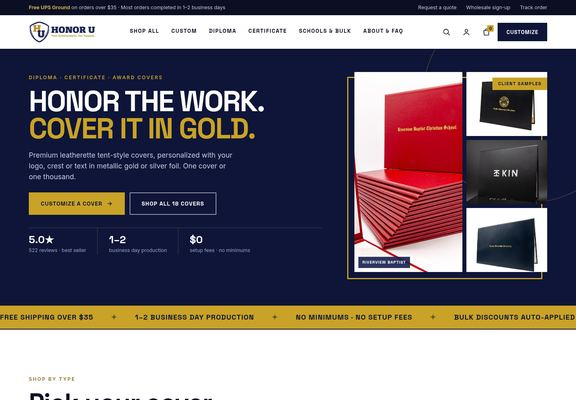
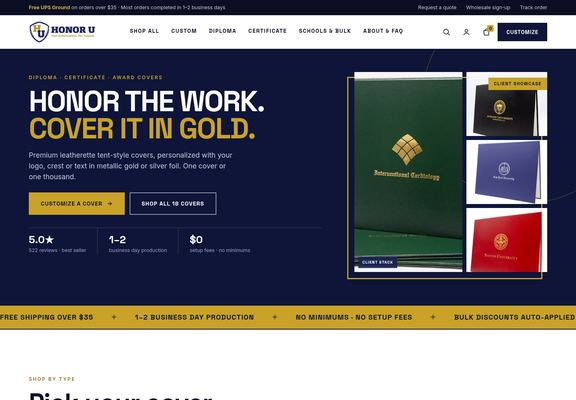
Design B: client-showcase hero photos; denser Pick your cover + Order now

Changed region(s): [[0.5938, 0.18, 0.9688, 0.69]]

diff --git a/design-b/index.html b/design-b/index.html
@@ -90,7 +90,7 @@ html.shot .hdr{position:relative}
 .hero-art::before{content:"";position:absolute;left:0;bottom:0;width:calc(100% - 18px);height:calc(100% - 18px);border:3px solid var(--gold);pointer-events:none;z-index:0}
 .collage{position:relative;z-index:1;display:grid;grid-template-columns:1.2fr .9fr;grid-template-rows:minmax(0,1fr) minmax(0,1fr) minmax(0,1fr);gap:10px;height:500px}
 .collage .tile{background:#fff;overflow:hidden;position:relative;display:grid;place-items:center}
-.collage .tile img{width:100%;height:100%;object-fit:cover}
+.collage .tile img{width:100%;height:100%;object-fit:cover;object-position:center}
 .collage .tile.cut img{width:88%;height:auto;max-height:92%;object-fit:contain;mix-blend-mode:multiply}
 .collage .a{grid-row:1/-1}
 .collage .cap{position:absolute;left:10px;bottom:10px;background:rgba(25,36,81,.92);color:#fff;font:700 10px/1.2 var(--disp);letter-spacing:.1em;text-transform:uppercase;padding:8px 10px}
@@ -99,18 +99,20 @@ html.shot .hdr{position:relative}
 .marq div{display:flex;gap:44px;white-space:nowrap;padding:20px 0;font:700 18px/1 var(--disp);letter-spacing:.06em;text-transform:uppercase;width:max-content}
 .marq i{font-style:normal;opacity:.55}
 .idx{border-top:2px solid var(--ink)}
-.idx a{display:grid;grid-template-columns:minmax(0,1fr) 280px;gap:48px;align-items:center;padding:40px 0;border-bottom:1px solid var(--line)}
-.idx a .body{order:1;display:grid;grid-template-columns:72px minmax(0,1fr);column-gap:22px;row-gap:10px;align-items:start}
-.idx a .th{order:2;height:260px;background:var(--paper);display:grid;place-items:center;overflow:hidden}
-.idx a .th img{height:90%;width:auto;max-width:92%;object-fit:contain;mix-blend-mode:multiply}
-.idx a:nth-child(even){grid-template-columns:280px minmax(0,1fr)}
-.idx a:nth-child(even) .th{order:1}
-.idx a:nth-child(even) .body{order:2}
-.idx .no{font:700 18px/1 var(--disp);color:#8E7024;grid-row:1/span 3;padding-top:8px}
-.idx h3{font-size:44px;text-transform:uppercase;letter-spacing:-.03em;grid-column:2}
-.idx p{margin:0;color:var(--mut);font-size:15.5px;grid-column:2;max-width:520px}
-.idx .pr{font:700 20px/1 var(--disp);grid-column:2;margin-top:6px}.idx .pr small{display:inline;font:500 13px/1.4 Inter,sans-serif;color:var(--mut);margin-left:10px}
-.idx a.feat{background:var(--navy);color:#fff;padding-left:28px;padding-right:28px;margin:0 -28px;border-bottom:0}.idx a.feat p{color:#C6CAE0}.idx a.feat .no{color:var(--gold)}.idx a.feat .th{background:#fff}
+.idx .row{display:grid;grid-template-columns:minmax(0,1fr) 200px;gap:28px;align-items:center;padding:18px 0;border-bottom:1px solid var(--line)}
+.idx .row .body{order:1;display:grid;grid-template-columns:56px minmax(0,1fr);column-gap:16px;row-gap:4px;align-items:start}
+.idx .row .th{order:2;height:168px;background:var(--paper);display:grid;place-items:center;overflow:hidden}
+.idx .row .th img{height:88%;width:auto;max-width:92%;object-fit:contain;mix-blend-mode:multiply}
+.idx .row:nth-child(even){grid-template-columns:200px minmax(0,1fr)}
+.idx .row:nth-child(even) .th{order:1}
+.idx .row:nth-child(even) .body{order:2}
+.idx .no{font:700 15px/1 var(--disp);color:#8E7024;grid-row:1/span 4;padding-top:6px}
+.idx h3{font-size:32px;text-transform:uppercase;letter-spacing:-.03em;grid-column:2}
+.idx p{margin:0;color:var(--mut);font-size:14.5px;grid-column:2;max-width:480px}
+.idx .meta{grid-column:2;display:flex;align-items:center;gap:16px;flex-wrap:wrap;margin-top:8px}
+.idx .pr{font:700 17px/1 var(--disp)}.idx .pr small{display:inline;font:500 12.5px/1.4 Inter,sans-serif;color:var(--mut);margin-left:8px}
+.idx .btn{height:42px;padding:0 18px;font-size:12.5px}
+.idx .row.feat{background:var(--navy);color:#fff;padding-left:22px;padding-right:22px;margin:0 -22px;border-bottom:0}.idx .row.feat p{color:#C6CAE0}.idx .row.feat .no{color:var(--gold)}.idx .row.feat .th{background:#fff}.idx .row.feat .pr small{color:#9EA3C4}.idx .row.feat .btn-navy{background:var(--gold);border-color:var(--gold);color:var(--navy)}
 .how{display:grid;grid-template-columns:repeat(3,1fr);border-top:1px solid rgba(255,255,255,.2)}
 .how div{padding:44px 40px 10px 0;border-right:1px solid rgba(255,255,255,.2);margin-right:40px}.how div:last-child{border:0;margin:0}
 .how .big{font:700 120px/.8 var(--disp);color:transparent;-webkit-text-stroke:2px var(--gold);display:block;margin-bottom:28px}
@@ -143,14 +145,15 @@ html.shot .hdr{position:relative}
  .collage{height:340px;gap:8px}.collage .cap{font-size:9px;padding:6px 8px;left:6px;bottom:6px}
  .hero-art .lab{top:10px;padding:8px 12px;font-size:10px}
  .marq div{font-size:14px;padding:15px 0;gap:26px}
- .idx a{grid-template-columns:minmax(0,1fr) 132px;gap:16px;padding:26px 0;align-items:center}
- .idx a .body{grid-template-columns:40px minmax(0,1fr);column-gap:12px;row-gap:6px}
- .idx a .th{height:132px}.idx a .th img{height:88%}
- .idx a:nth-child(even){grid-template-columns:132px minmax(0,1fr)}
- .idx .no{font-size:14px;padding-top:4px;grid-row:1/span 3}
- .idx h3{font-size:22px;grid-column:2}.idx p{grid-column:2;font-size:13.5px;max-width:none}
- .idx .pr{grid-column:2;font-size:16px;margin-top:2px}.idx .pr small{margin-left:6px;font-size:12px}
- .idx a.feat{margin:0 -20px;padding-left:16px;padding-right:16px}
+ .idx .row{grid-template-columns:minmax(0,1fr) 112px;gap:12px;padding:14px 0}
+ .idx .row .body{grid-template-columns:34px minmax(0,1fr);column-gap:10px;row-gap:3px}
+ .idx .row .th{height:112px}.idx .row .th img{height:88%}
+ .idx .row:nth-child(even){grid-template-columns:112px minmax(0,1fr)}
+ .idx .no{font-size:13px;padding-top:3px;grid-row:1/span 4}
+ .idx h3{font-size:18px;grid-column:2}.idx p{grid-column:2;font-size:13px;max-width:none}
+ .idx .meta{grid-column:2;gap:10px;margin-top:6px}.idx .pr{font-size:15px}.idx .pr small{margin-left:6px;font-size:11.5px}
+ .idx .btn{height:38px;padding:0 14px;font-size:11.5px;width:100%;max-width:160px}
+ .idx .row.feat{margin:0 -16px;padding-left:14px;padding-right:14px}
  .how{grid-template-columns:1fr}.how div{border-right:0;border-bottom:1px solid rgba(255,255,255,.2);margin:0;padding:30px 0}.how .big{font-size:80px;margin-bottom:18px}.how h3{font-size:24px}
  .bulk{grid-template-columns:1fr;min-height:0}.bulk .im{height:300px}.bulk .tx{padding:44px var(--g)}.bulk h2{font-size:36px}
  .quote{grid-template-columns:1fr;gap:30px}.quote blockquote{font-size:31px}.quote blockquote::before{font-size:100px}
@@ -169,18 +172,18 @@ html.shot .hdr{position:relative}
 <p>Premium leatherette tent-style covers, personalized with your logo, crest or text in metallic gold or silver foil. One cover or one thousand.</p>
 <div class="ctas"><a class="btn btn-gold" href="product.html">Customize a cover <svg width="14" height="14" viewBox="0 0 24 24" fill="none" stroke="currentColor" stroke-width="2" stroke-linecap="round"><path d="M5 12h14M13 6l6 6-6 6"/></svg></a><a class="btn btn-line" href="collection.html">Shop all 18 covers</a></div>
 <div class="stats"><div><b>5.0★</b><span>522 reviews · best seller</span></div><div><b>1–2</b><span>business day production</span></div><div><b>$0</b><span>setup fees · no minimums</span></div></div></div>
-<div class="hero-art" data-block="hero collage (client samples)"><span class="lab">Client samples</span>
+<div class="hero-art" data-block="hero collage (client showcase)"><span class="lab">Client showcase</span>
 <div class="collage">
-<div class="tile a"><img src="../shared-assets/site/RiverviewBaptistGroupStack.jpg" alt="Riverview Baptist Christian School custom covers"><span class="cap">Riverview Baptist</span></div>
-<div class="tile cut"><img src="../shared-assets/products/custom-tent-style-document-cover-with-metallic-foil-printed-logo-or-text/11.jpg" alt="Walther Theological Seminary cover"></div>
-<div class="tile"><img src="../shared-assets/site/KIN_final_stack_62835ca3-bf75-468c-9a63-2eefc4b54c76.jpg" alt="KIN custom logo cover stack"></div>
-<div class="tile cut"><img src="../shared-assets/products/made-to-fit-custom-size-tent-style-document-cover-for-unique-dimensions/02.jpg" alt="Toronto Metropolitan University Made-to-Fit cover"></div>
+<div class="tile a"><img src="../shared-assets/site/client-showcase/Interventional_Cardiology_2026_stack_group.jpg" alt="Interventional Cardiology fellowship covers"><span class="cap">Client stack</span></div>
+<div class="tile"><img src="../shared-assets/site/client-showcase/howard_university.jpg" alt="Howard University diploma cover"></div>
+<div class="tile"><img src="../shared-assets/site/client-showcase/New_York_University_seal_and_OE_text_silver.jpg" alt="New York University cover with silver foil"></div>
+<div class="tile"><img src="../shared-assets/site/client-showcase/Boston_University.jpg" alt="Boston University diploma cover"></div>
 </div></div>
 </div></section>
 <div class="marq" aria-label="Store benefits"><div>Free shipping over $35 <i>✦</i> 1–2 business day production <i>✦</i> No minimums · no setup fees <i>✦</i> Bulk discounts auto-applied <i>✦</i> Gold or silver foil <i>✦</i> 6 leatherette colors <i>✦</i> Free shipping over $35 <i>✦</i> 1–2 business day production <i>✦</i> No minimums · no setup fees <i>✦</i> Bulk discounts auto-applied <i>✦</i> Gold or silver foil <i>✦</i> 6 leatherette colors</div></div>
 <section class="sec" data-section="collection-list (editorial index)"><div class="wrap">
 <div class="sh"><div><span class="kick dk">Shop by type</span><h2>Pick your cover.</h2></div><a class="lnk" href="collection.html">View all 18 <svg width="14" height="14" viewBox="0 0 24 24" fill="none" stroke="currentColor" stroke-width="2" stroke-linecap="round"><path d="M5 12h14M13 6l6 6-6 6"/></svg></a></div>
-<div class="idx"><a class="feat" href="collection.html"><span class="th"><img src="../shared-assets/products/custom-tent-style-document-cover-with-metallic-foil-printed-logo-or-text/01.jpg" alt=""></span><div class="body"><span class="no">01</span><h3>Custom logo</h3><p>Your crest, seal or company logo in metallic foil.</p><span class="pr">$25.00<small>from</small></span></div></a><a class="" href="product.html"><span class="th"><img src="../shared-assets/products/custom-tent-style-document-cover-with-metallic-foil-printed-text-only/01.jpg" alt=""></span><div class="body"><span class="no">02</span><h3>Custom text</h3><p>Any wording · 4 fonts · gold or silver foil.</p><span class="pr">$25.00<small>step-by-step builder</small></span></div></a><a class="" href="collection.html"><span class="th"><img src="../shared-assets/products/classic-high-school-diploma-tent-style-document-cover/01.jpg" alt=""></span><div class="body"><span class="no">03</span><h3>Diploma phrase</h3><p>High School, GED, Home School, Degree, Class of…</p><span class="pr">$15.00<small>8 styles</small></span></div></a><a class="" href="collection.html"><span class="th"><img src="../shared-assets/products/classic-certificate-of-citizenship-tent-style-document-cover/01.jpg" alt=""></span><div class="body"><span class="no">04</span><h3>Certificate phrase</h3><p>Citizenship, Naturalization, Marriage, Baptism…</p><span class="pr">$15.00–$20.00<small>6 styles</small></span></div></a><a class="" href="collection.html"><span class="th"><img src="../shared-assets/products/blank-tent-style-document-cover/01.webp" alt=""></span><div class="body"><span class="no">05</span><h3>Blank</h3><p>Clean, solid leatherette in five colors.</p><span class="pr">$10.00<small>from</small></span></div></a><a class="" href="collection.html"><span class="th"><img src="../shared-assets/products/made-to-fit-custom-size-tent-style-document-cover-for-unique-dimensions/01.jpg" alt=""></span><div class="body"><span class="no">06</span><h3>Made-to-Fit</h3><p>Any non-standard size, made to your measurements.</p><span class="pr">$50.00<small>any size</small></span></div></a></div></div></section>
+<div class="idx"><div class="row feat"><span class="th"><img src="../shared-assets/products/custom-tent-style-document-cover-with-metallic-foil-printed-logo-or-text/01.jpg" alt=""></span><div class="body"><span class="no">01</span><h3>Custom logo</h3><p>Your crest, seal or company logo in metallic foil.</p><div class="meta"><span class="pr">$25.00<small>from</small></span><a class="btn btn-navy" href="product.html">Order now</a></div></div></div><div class="row"><span class="th"><img src="../shared-assets/products/custom-tent-style-document-cover-with-metallic-foil-printed-text-only/01.jpg" alt=""></span><div class="body"><span class="no">02</span><h3>Custom text</h3><p>Any wording · 4 fonts · gold or silver foil.</p><div class="meta"><span class="pr">$25.00<small>step-by-step builder</small></span><a class="btn btn-navy" href="product.html">Order now</a></div></div></div><div class="row"><span class="th"><img src="../shared-assets/products/classic-high-school-diploma-tent-style-document-cover/01.jpg" alt=""></span><div class="body"><span class="no">03</span><h3>Diploma phrase</h3><p>High School, GED, Home School, Degree, Class of…</p><div class="meta"><span class="pr">$15.00<small>8 styles</small></span><a class="btn btn-navy" href="collection.html">Order now</a></div></div></div><div class="row"><span class="th"><img src="../shared-assets/products/classic-certificate-of-citizenship-tent-style-document-cover/01.jpg" alt=""></span><div class="body"><span class="no">04</span><h3>Certificate phrase</h3><p>Citizenship, Naturalization, Marriage, Baptism…</p><div class="meta"><span class="pr">$15.00–$20.00<small>6 styles</small></span><a class="btn btn-navy" href="collection.html">Order now</a></div></div></div><div class="row"><span class="th"><img src="../shared-assets/products/blank-tent-style-document-cover/01.webp" alt=""></span><div class="body"><span class="no">05</span><h3>Blank</h3><p>Clean, solid leatherette in five colors.</p><div class="meta"><span class="pr">$10.00<small>from</small></span><a class="btn btn-navy" href="collection.html">Order now</a></div></div></div><div class="row"><span class="th"><img src="../shared-assets/products/made-to-fit-custom-size-tent-style-document-cover-for-unique-dimensions/01.jpg" alt=""></span><div class="body"><span class="no">06</span><h3>Made-to-Fit</h3><p>Any non-standard size, made to your measurements.</p><div class="meta"><span class="pr">$50.00<small>any size</small></span><a class="btn btn-navy" href="product.html">Order now</a></div></div></div></div></div></section>
 <section class="sec paper" data-section="featured-collection (best sellers)"><div class="wrap">
 <div class="sh"><div><span class="kick dk">Most loved</span><h2>Best sellers.</h2></div><a class="lnk" href="collection.html">Shop all <svg width="14" height="14" viewBox="0 0 24 24" fill="none" stroke="currentColor" stroke-width="2" stroke-linecap="round"><path d="M5 12h14M13 6l6 6-6 6"/></svg></a></div>
 <div class="grid4"><a class="cardb" href="product.html"><div class="m"><span class="tag ">Best seller</span><img src="../shared-assets/products/custom-tent-style-document-cover-with-metallic-foil-printed-logo-or-text/01.jpg" alt="Custom Tent-Style Document Cover with Metallic Foil Printed Logo (+/- Text)"></div><div class="b"><span class="t">Custom</span><h3>Custom Logo (+/- Text) Cover</h3><span class="r"><span class="stars" aria-hidden="true">★★★★★<span style="opacity:.3"></span></span><b>5.0</b>(522)</span>
